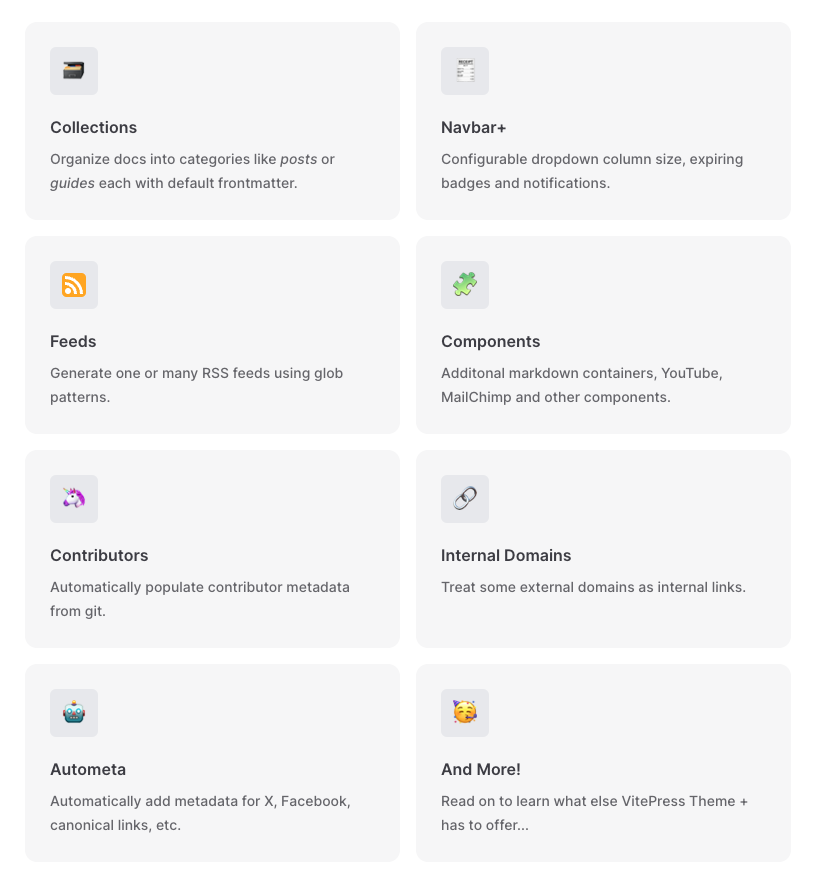
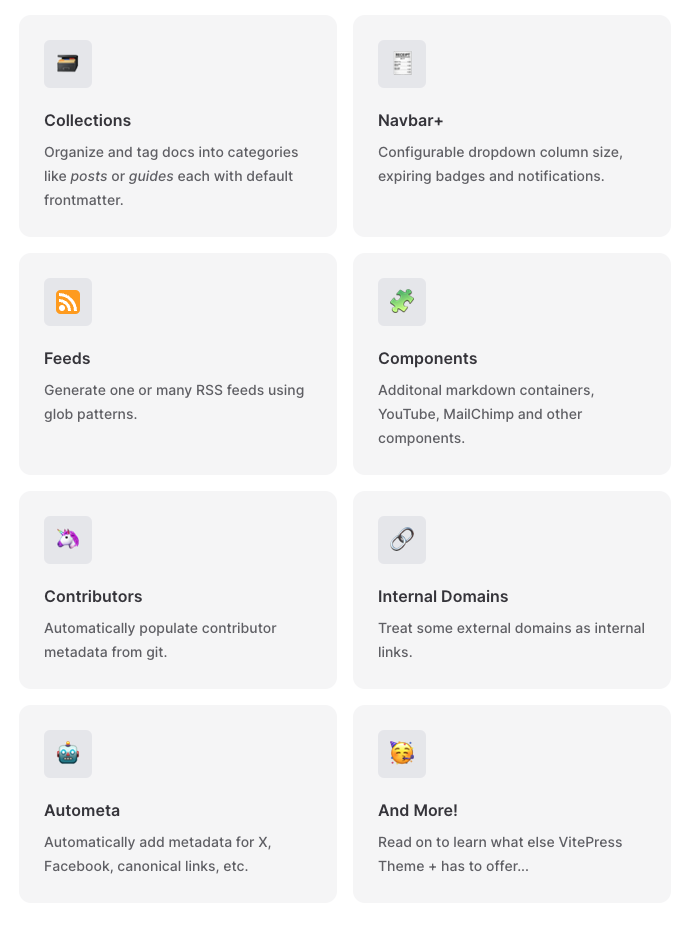
update features to reflect tagging

diff --git a/docs/index.md b/docs/index.md
@@ -18,7 +18,7 @@ hero:
 features:
   - icon: 🗃
     title: Collections
-    details: Organize docs into categories like <em>posts</em> or <em>guides</em> each with default frontmatter.
+    details: Organize and tag docs into categories like <em>posts</em> or <em>guides</em> each with default frontmatter.
   - icon: 🧾
     title: Navbar+
     details: Configurable dropdown column size, expiring badges and notifications.
